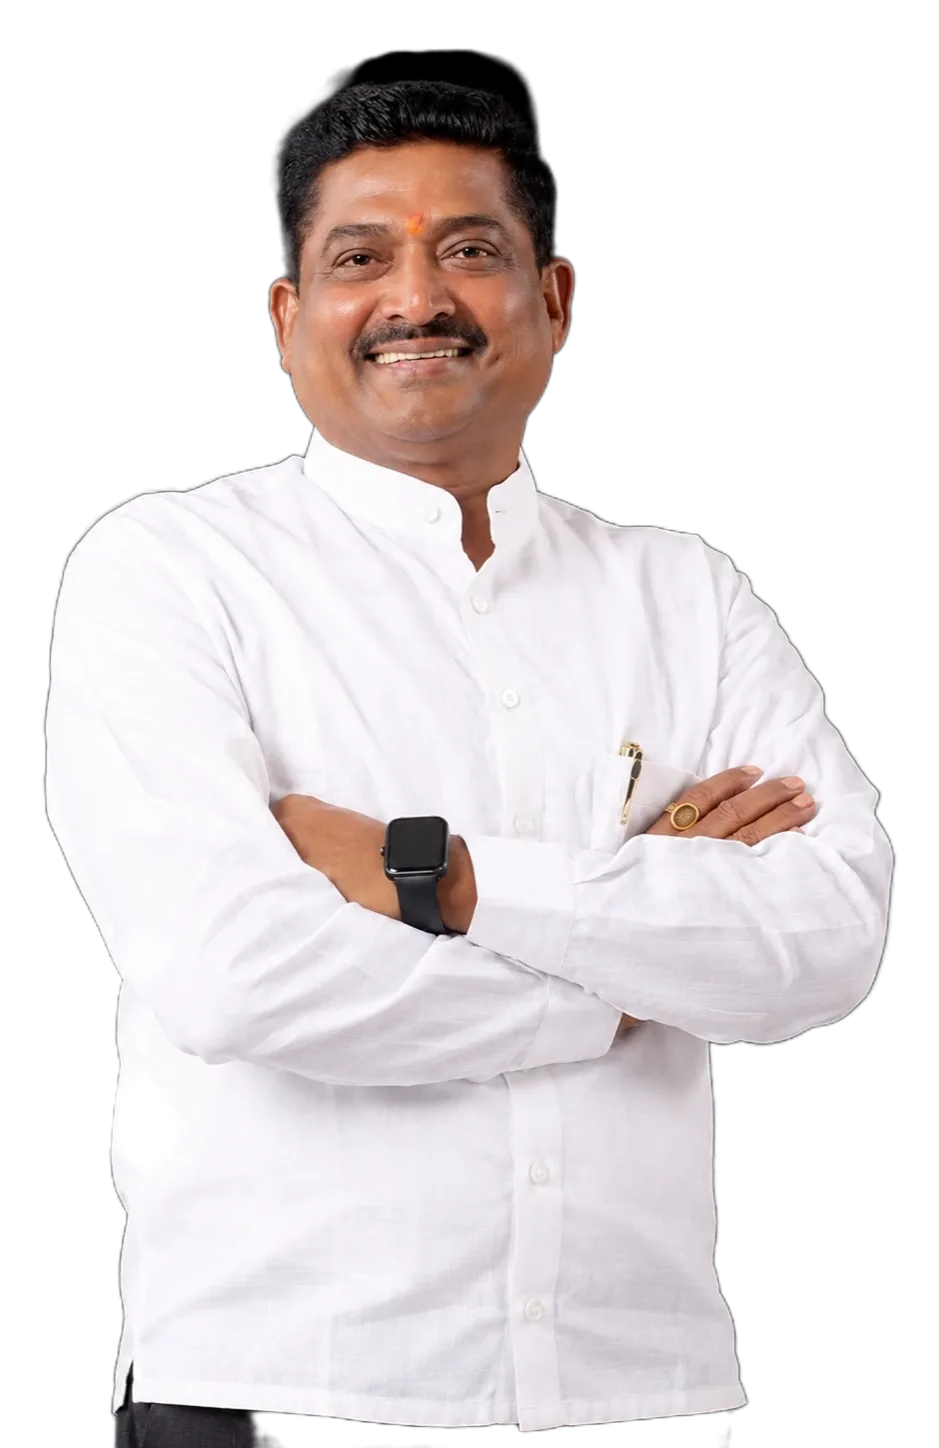
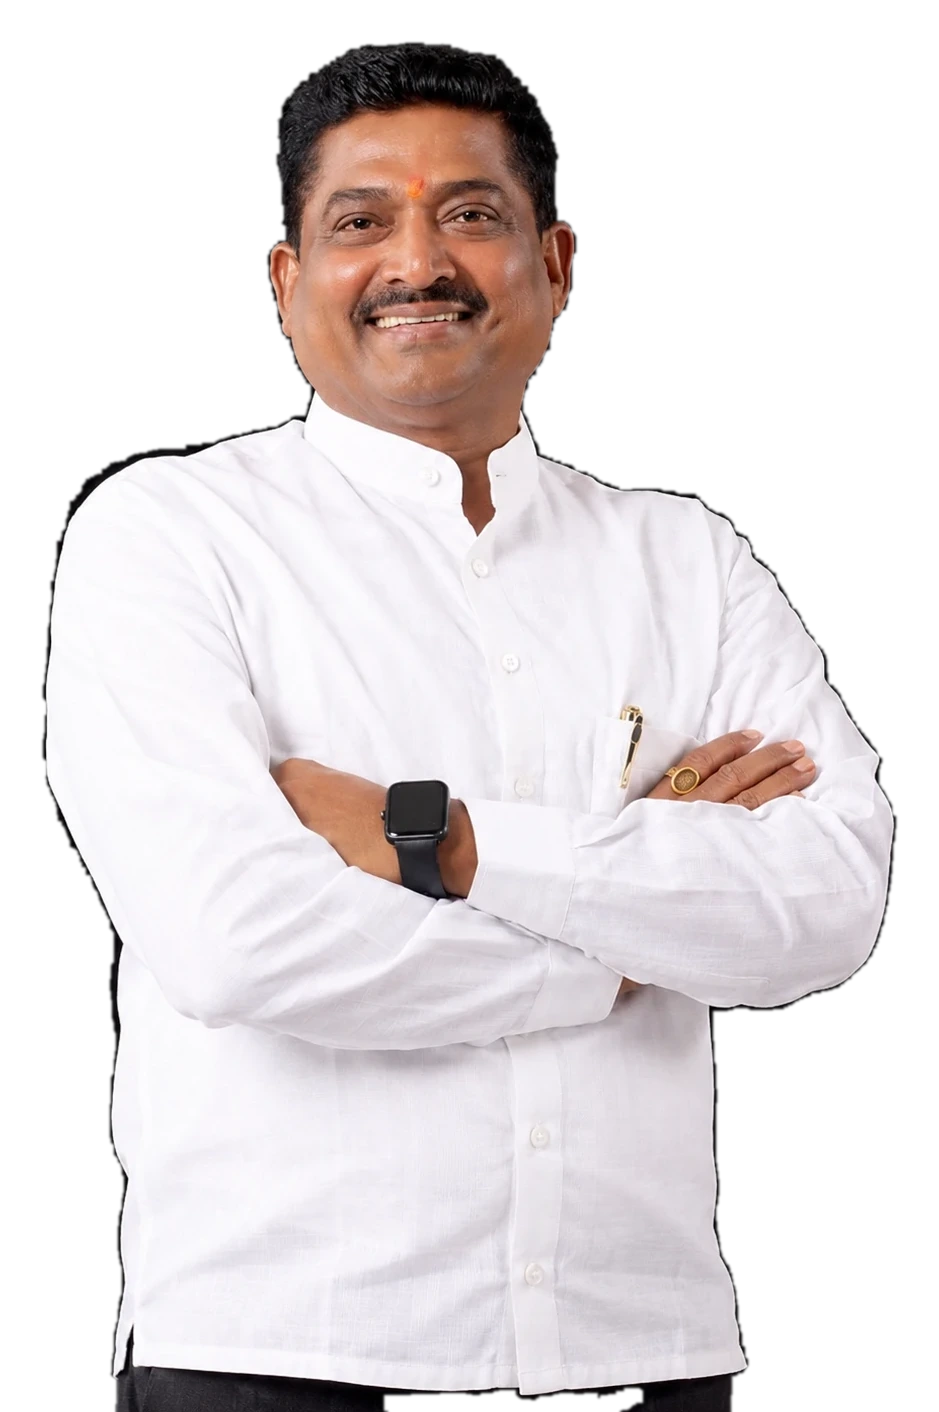
Officials: fix holes in cut-outs (Sudhakar Kohale's photo, and the remover)
The background remover had half-erased patches of a white shirt on a
black backdrop, leaving dark spots on the card. Sudhakar Kohale's cut-out
is rebuilt from his original photo. The remover now repairs its matte:
on a plain backdrop, anything near the person that clearly differs from
the backdrop counts as the person, and small holes enclosed by the person
are filled (for officials' and players' card photos alike).

Claude-Session: https://claude.ai/code/session_01UhhZpANbrgYz22YbqLpi23

diff --git a/src/components/admin/cutout.ts b/src/components/admin/cutout.ts
@@ -126,7 +126,8 @@ export async function cutOut(file: Blob, onProgress?: (share: number) => void): 
     input[2 * n + i] = px[i * 4 + 2] / 127.5 - 1;
   }
   const out = await s.run({ [s.inputNames[0]]: new ort.Tensor("float32", input, [1, 3, mh, mw]) });
-  const alpha = out[s.outputNames[0]].data;
+  const alpha = Float32Array.from(out[s.outputNames[0]].data as Float32Array);
+  refineMatte(alpha, px, mw, mh);
 
   // Tighten the matte a little: drops the faint halo of old background at the edges.
   const m = sctx.createImageData(mw, mh);
@@ -142,6 +143,95 @@ export async function cutOut(file: Blob, onProgress?: (share: number) => void): 
   mctx.drawImage(small, 0, 0, W, H);
 
   return { photo, matte, frame: autoFrame(alpha, mw, mh, W / mw) };
+}
+
+/**
+ * Repairs common background-remover mistakes, in place (matte at model size):
+ *  - On a plain backdrop (black, white or grey studio), anything near the
+ *    person that clearly differs from the backdrop colour is the person —
+ *    e.g. a white shirt that the model half-erased.
+ *  - Small holes completely surrounded by the person are filled.
+ */
+function refineMatte(alpha: Float32Array, px: Uint8ClampedArray, w: number, h: number) {
+  const n = w * h;
+  // 1. Plain backdrop: sample a band along the top and sides.
+  const band = Math.max(2, Math.round(Math.min(w, h) * 0.03));
+  let sum = [0, 0, 0], cnt = 0;
+  const border: number[] = [];
+  for (let y = 0; y < h; y++)
+    for (let x = 0; x < w; x++) {
+      if (y >= band && x >= band && x < w - band) continue;
+      if (y > h * 0.8) continue; // the bottom is usually the person
+      const i = (y * w + x) * 4;
+      sum = [sum[0] + px[i], sum[1] + px[i + 1], sum[2] + px[i + 2]];
+      border.push(i);
+      cnt++;
+    }
+  const bg = sum.map((v) => v / cnt);
+  let spread = 0;
+  for (const i of border) spread += Math.abs(px[i] - bg[0]) + Math.abs(px[i + 1] - bg[1]) + Math.abs(px[i + 2] - bg[2]);
+  spread /= cnt;
+  if (spread < 18) {
+    // Near the person: within a few pixels of where the model is fairly sure.
+    const near = new Uint8Array(n);
+    const reach = Math.round(Math.min(w, h) * 0.06);
+    for (let y = 0; y < h; y++) {
+      let last = -1e9;
+      for (let x = 0; x < w; x++) {
+        if (alpha[y * w + x] > 0.5) last = x;
+        if (x - last <= reach) near[y * w + x] = 1;
+      }
+      last = 1e9;
+      for (let x = w - 1; x >= 0; x--) {
+        if (alpha[y * w + x] > 0.5) last = x;
+        if (last - x <= reach) near[y * w + x] = 1;
+      }
+    }
+    for (let i = 0; i < n; i++) {
+      if (!near[i]) continue;
+      const d = Math.abs(px[i * 4] - bg[0]) + Math.abs(px[i * 4 + 1] - bg[1]) + Math.abs(px[i * 4 + 2] - bg[2]);
+      if (d > 90) alpha[i] = 1;
+      else if (d > 45) alpha[i] = Math.max(alpha[i], (d - 45) / 45);
+    }
+  }
+  // 2. Fill small holes: low-alpha areas not connected to the image edge.
+  const seen = new Uint8Array(n);
+  const stack: number[] = [];
+  const push = (i: number) => {
+    if (!seen[i] && alpha[i] < 0.5) {
+      seen[i] = 1;
+      stack.push(i);
+    }
+  };
+  for (let x = 0; x < w; x++) push(x), push((h - 1) * w + x);
+  for (let y = 0; y < h; y++) push(y * w), push(y * w + w - 1);
+  while (stack.length) {
+    const i = stack.pop()!;
+    const x = i % w;
+    if (x > 0) push(i - 1);
+    if (x < w - 1) push(i + 1);
+    if (i >= w) push(i - w);
+    if (i < n - w) push(i + w);
+  }
+  const limit = n * 0.015;
+  const done = new Uint8Array(n);
+  for (let s = 0; s < n; s++) {
+    if (seen[s] || done[s] || alpha[s] >= 0.5) continue;
+    const comp: number[] = [];
+    const st = [s];
+    done[s] = 1;
+    while (st.length) {
+      const i = st.pop()!;
+      comp.push(i);
+      const x = i % w;
+      for (const j of [x > 0 ? i - 1 : -1, x < w - 1 ? i + 1 : -1, i - w, i + w]) {
+        if (j < 0 || j >= n || done[j] || seen[j] || alpha[j] >= 0.5) continue;
+        done[j] = 1;
+        st.push(j);
+      }
+    }
+    if (comp.length < limit) for (const i of comp) alpha[i] = 1;
+  }
 }
 
 /**
